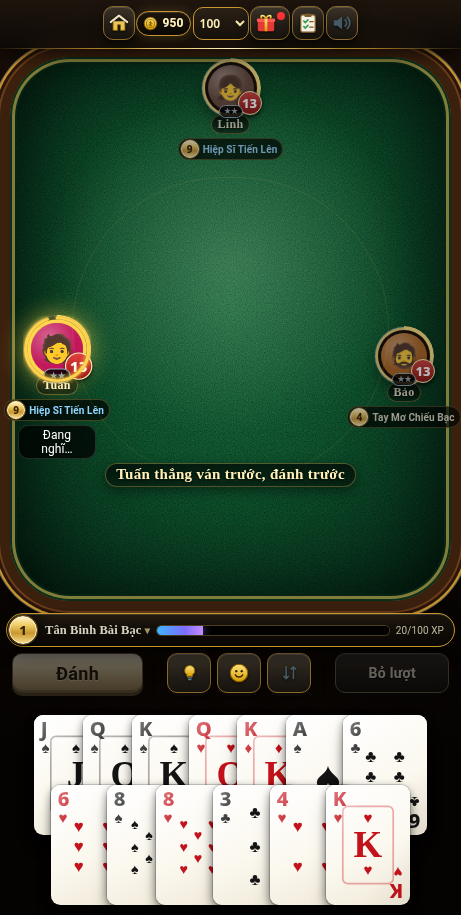
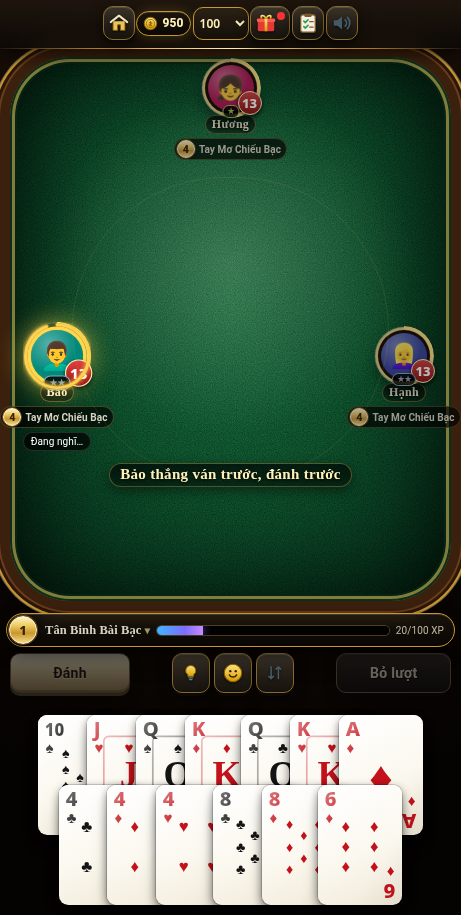
Hết giờ lượt 15s: tự bỏ/tự đánh, 3 lần → treo máy (offline + host online); hàng nút vừa màn hẹp, gộp chat vào biểu cảm; nhãn Đang nghĩ gọn; SW v20

diff --git a/index.html b/index.html
@@ -383,6 +383,11 @@ body.rewardfx #top{position:relative;z-index:25}
 .comp{margin:6px 0 10px}.srow2{display:flex;gap:6px;align-items:center;margin-bottom:6px}.srow2 button{margin:0;padding:6px 14px}
 .seatgrid{display:grid;grid-template-columns:repeat(2,1fr);gap:6px}.sg{border-radius:12px;padding:8px;text-align:center;background:#ffffff0d;border:1px solid #ffffff1a;font-size:13px;position:relative;min-height:38px;display:flex;align-items:center;justify-content:center;gap:4px}
 .sg.hum{border-color:#e9c45a66}.sg.bot{border-color:#4dd0e166}.sg.empty{border-style:dashed}.sg button{margin:0;padding:5px 10px;font-size:12px}.sg .x{position:absolute;right:4px;top:4px;padding:1px 6px!important;background:#c62828!important;border:none!important;color:#fff!important;border-radius:50%!important}
+#afkBar{position:fixed;left:50%;top:56px;transform:translateX(-50%);z-index:300;background:#000d;color:#ffe9a8;border:1px solid #e9c45a;padding:8px 14px;border-radius:14px;font-size:13px;font-weight:700;max-width:92vw;text-align:center}
+@media (max-width:470px){#ctrl{gap:4px!important;padding:0 4px!important}#ctrl #bPlay,#ctrl #bPass{flex:1 1 0;max-width:120px;min-width:72px;padding-left:4px!important;padding-right:4px!important;font-size:14px}
+ #ctrl .alt.ic,#bHint,#bSort{width:38px!important}#ctrl #bChat{display:none!important}}
+.seat .tag{white-space:nowrap;font-size:10px;padding:1px 7px;line-height:15px;min-height:0;max-width:96px;overflow:hidden;text-overflow:ellipsis}
+.emochat{width:100%;margin:0 0 6px!important}
 </style></head><body>
 <svg width="0" height="0" style="position:absolute" aria-hidden="true"><defs>
 <linearGradient id="gGold" x1="0" y1="0" x2="0" y2="1"><stop offset="0" stop-color="#ffe680"/><stop offset="1" stop-color="#d89b00"/></linearGradient>
@@ -423,7 +428,7 @@ body.rewardfx #top{position:relative;z-index:25}
 <div class="modal" id="modal" onclick="if(event.target===this)closeModal()"><div id="modalIn"></div></div><div id="home"></div><div id="emoBar"></div><div id="chatDraw"></div><div id="toast"></div><div id="updBar">Có bản mới! <button onclick="location.reload()">Tải lại</button></div><div id="fx"></div>
 <script src="cloud-config.js"></script>
 <script>
-const APP_VER='82a7a8f5d5';
+const APP_VER='3a755e3b1d';
 // RULES_START
 const RANKS=['3','4','5','6','7','8','9','10','J','Q','K','A','2'];
 const SUITS=['♠','♣','♦','♥'];
@@ -783,7 +788,7 @@ function oBotMove(st,lv){const p=st.turn,others=oActive(st).filter(q=>q!==p).map
  if(m&&!(detect(m)&&canBeat(detect(m),st.cur)&&(!st.first||m.includes(st.firstCard))))m=botMove(st.hands[p],st.cur,st.first?st.firstCard:null,others);if(m)return{type:'play',cards:m};if(!st.cur)return{type:'play',cards:[st.hands[p][0]]};return{type:'pass'};}
 // ---- Host ----
 class OnlineHost{
- constructor(tr,me,opt){this.tr=tr;this.me=me;this.opt=Object.assign({fillBots:true,botDelay:900,turnMs:30000},opt||{});this.players=[me];this.seats=[null,null,null,null];this.st=null;this.lastWinner=null;this.timer=null;this.rev=0;
+ constructor(tr,me,opt){this.tr=tr;this.me=me;this.opt=Object.assign({fillBots:true,botDelay:900,turnMs:15000},opt||{});this.players=[me];this.seats=[null,null,null,null];this.st=null;this.lastWinner=null;this.timer=null;this.rev=0;
   tr.on('intent',m=>this.onIntent(m));tr.on('hello',m=>this.addPlayer(m));this.assign();}
  addPlayer(p){if(!p||!p.uid)return;const i=this.players.findIndex(x=>x.uid===p.uid);if(i>=0)this.players[i]=Object.assign(this.players[i],p,{gone:false});else{if(this.players.filter(x=>!x.gone).length>=(this.opt.size||4))return this.tr.send('full',{uid:p.uid});this.players.push(p);}
   if(this.st&&!this.st.over){const s=this.st.seats.findIndex(x=>x&&x.uid===p.uid);if(s>=0){this.st.seats[s]=Object.assign({},this.st.seats[s],{bot:false});this.push();return;}}
@@ -801,11 +806,15 @@ class OnlineHost{
  start(rng){if(this.st&&!this.st.over)return false;this.assign();const humans=this.seats.filter(Boolean).length;if(humans<2&&!this.opt.fillBots)return false;
   const seats=this.seats.slice();if(this.opt.fillBots&&!this._cfg){let k=0;for(let i=0;i<(this.opt.size||4);i++)if(!seats[i]){seats[i]={uid:null,name:OBOTS[(k++ +humans)%OBOTS.length],bot:true,av:'🤖',lv:5};}}
   if(seats.filter(Boolean).length<2)return false;this.st=oDeal(seats,this.lastWinner,rng);this.st.bet=this.opt.bet||100;if(this.st.over)this.finish();this.push();this.tick();return true;}
- onIntent(m){if(!this.st||!m)return;const seat=this.st.seats.findIndex(s=>s&&s.uid===m.uid);if(seat<0)return;const r=oAct(this.st,seat,m.a||{});
+ onIntent(m){if(!this.st||!m)return;const seat=this.st.seats.findIndex(s=>s&&s.uid===m.uid);if(seat<0)return;const st0=this.st;st0.to=st0.to||[0,0,0,0];st0.afk=st0.afk||[false,false,false,false];const wasAfk=st0.afk[seat];st0.to[seat]=0;st0.afk[seat]=false;if(m.a&&m.a.type==='wake'){this.push();if(wasAfk&&st0.turn===seat)this.tick();return;}const r=oAct(this.st,seat,m.a||{});
   if(!r.ok){this.tr.send('reject',{uid:m.uid,err:r.err});return;}if(this.st.over)this.finish();this.push();this.tick();}
  finish(){const w=this.st.rank&&this.st.seats[this.st.rank[0]];this.lastWinner=w?w.uid:null;clearTimeout(this.timer);}
- tick(){clearTimeout(this.timer);const st=this.st;if(!st||st.over)return;const s=st.seats[st.turn];const auto=()=>{if(this.st!==st||st.over)return;if(this._lvSt!==st){this._lvSt=st;this._lv=[0,1,2,3].map(()=>typeof aiPickLevel==='function'?aiPickLevel((this.me&&this.me.lv)||10):1);}oAct(st,st.turn,oBotMove(st,this._lv[st.turn]));if(st.over)this.finish();this.push();this.tick();};
-  this.timer=setTimeout(auto,s&&s.bot?this.opt.botDelay:this.opt.turnMs);}
+ tick(){clearTimeout(this.timer);const st=this.st;if(!st||st.over)return;const s=st.seats[st.turn];st.to=st.to||[0,0,0,0];st.afk=st.afk||[false,false,false,false];const human=s&&!s.bot,afk=human&&st.afk[st.turn];
+  const timeout=()=>{if(this.st!==st||st.over)return;const p=st.turn;st.to[p]=(st.to[p]||0)+1;let a;if(st.cur)a={type:'pass'};else{const c=st.first?st.firstCard:Math.min(...st.hands[p]);a={type:'play',cards:[c]};}
+   oAct(st,p,a);st.ev=Object.assign(st.ev||{},{timeout:true,tseat:p});if(st.to[p]>=3){st.afk[p]=true;st.hist.push({txt:`${seatName(st,p)} treo máy — máy chơi thay`,cls:'ps'});}if(st.over)this.finish();this.push();this.tick();};
+  if(human&&!afk){this.timer=setTimeout(timeout,this.opt.turnMs);return;}
+  const auto=()=>{if(this.st!==st||st.over)return;if(this._lvSt!==st){this._lvSt=st;this._lv=[0,1,2,3].map(()=>typeof aiPickLevel==='function'?aiPickLevel((this.me&&this.me.lv)||10):1);}oAct(st,st.turn,oBotMove(st,this._lv[st.turn]));if(st.over)this.finish();this.push();this.tick();};
+  this.timer=setTimeout(auto,this.opt.botDelay);}
  push(){this.rev++;this.tr.send('room',Object.assign(this.room(),{rev:this.rev}));if(this.st)this.tr.send('state',{rev:this.rev,st:this.st});if(this.onState)this.onState(this.st,this.room());}
  stop(){clearTimeout(this.timer);}
  resume(st,players,rev){this.st=st;this.rev=(rev||0)+1;this.players=players.slice();if(!this.players.find(x=>x.uid===this.me.uid))this.players.unshift(this.me);
@@ -1927,5 +1936,27 @@ const _rr20=renderRoom;renderRoom=function(){_rr20.apply(this,arguments);try{con
   if(s&&s.bot)return `<div class="sg bot">🤖 Máy ${amHost&&!playing?`<button class="x" onclick="hostBot(${i},false)" title="Bỏ máy">✕</button>`:''}</div>`;
   return `<div class="sg empty">${amHost&&!playing?`<button class="alt" onclick="hostBot(${i},true)">+ Thêm máy</button>`:'Ghế trống'}</div>`;}).join('')}</div><p class="small">Máy có độ khó ngẫu nhiên · XP/xu tính theo tổng số ghế có người/máy (${seats.filter(Boolean).length} ghế).</p></div>`;
  h4.insertAdjacentHTML('afterend',html);if(r.cfg){const lab=[...document.querySelectorAll('#home label')].find(l=>/Thêm máy vào ghế trống/.test(l.textContent));if(lab)lab.style.display='none';}}catch(e){}};
+// ---- Hết giờ lượt (15s): tự bỏ / tự đánh lá nhỏ nhất; 3 lần liền → treo máy, máy chơi thay
+const TURN_MS=15000;let _tKey=null,_tT0=0,_toCount=0,AFK=false;
+function myTurnKey(){return G&&!G.over&&G.turn===0&&!DEALING&&!G.online?(G.hist.length+':'+G.hands[0].length+':'+(G.cur?1:0)):null;}
+function afkBanner(on){let b=$('afkBar');if(on&&!b){b=document.createElement('div');b.id='afkBar';b.textContent='😴 Bạn đang treo máy — máy chơi thay. Chạm để chơi tiếp';document.body.appendChild(b);}else if(!on&&b)b.remove();}
+function wakeUp(){if(!AFK&&!(G&&G.online&&ONL.st&&ONL.st.afk&&ONL.st.afk[myOnlineSeat()]))return;AFK=false;_toCount=0;afkBanner(false);toast('Chào mừng trở lại!');
+ if(G&&G.online){const a={uid:USER.id,a:{type:'wake'}};if(ONL.host)ONL.host.onIntent(a);else ONL.tr&&ONL.tr.send('intent',a);}else if(G&&G.turn===0)setTimeout(()=>{_tKey=null;},0);}
+function myOnlineSeat(){return ONL.st&&USER?ONL.st.seats.findIndex(s=>s&&s.uid===USER.id):-1;}
+if(typeof window!=='undefined'&&window.addEventListener)window.addEventListener('pointerdown',()=>{try{wakeUp();}catch(e){}},{capture:true,passive:true});
+const _hp21=humanPlay;humanPlay=function(){if(!window._autoAct)_toCount=0;return _hp21();};
+const _hs21=humanPass;humanPass=function(){if(!window._autoAct)_toCount=0;return _hs21();};
+function autoMove(reason){if(!G||G.over||G.turn!==0||G.online)return;window._autoAct=true;try{
+ if(AFK){let m=aiMove(1,G.hands[0],G.cur,G.first?G.firstCard:null,{others:[13]});if(m){sel=new Set(m);humanPlay();}else if(G.cur)humanPass();else{sel=new Set([G.first?G.firstCard:Math.min(...G.hands[0])]);humanPlay();}return;}
+ if(G.cur){humanPass();toast('Hết giờ, tự bỏ lượt');}else{const c=G.first?G.firstCard:Math.min(...G.hands[0]);sel=new Set([c]);humanPlay();toast('Hết giờ, tự đánh lá nhỏ nhất');}
+ _toCount++;if(_toCount>=3){AFK=true;afkBanner(true);}}finally{window._autoAct=false;}}
+setInterval(()=>{try{const k=myTurnKey();if(k!==_tKey){_tKey=k;_tT0=Date.now();return;}if(!k)return;
+ if(AFK){if(Date.now()-_tT0>1000)autoMove();return;}if(Date.now()-_tT0>TURN_MS)autoMove();}catch(e){}},300);
+// online: thông báo hết giờ / treo máy
+const _os21=onlineState;onlineState=function(st,fh){_os21(st,fh);try{const me=myOnlineSeat();if(me<0)return;
+ if(st.ev&&st.ev.timeout&&st.ev.tseat===me){const k=(st.hist||[]).length+':'+st.turn;if(ONL._toK!==k){ONL._toK=k;toast(st.ev.cards||st.cur&&st.curBy===me?'Hết giờ, tự đánh lá nhỏ nhất':'Hết giờ, tự bỏ lượt');}}
+ afkBanner(!!(st.afk&&st.afk[me]&&!st.over));}catch(e){}};
+// gộp chat vào nút biểu cảm khi online trên màn hình hẹp
+const _te21=toggleEmotes;toggleEmotes=function(){_te21();const b=$('emoBar');if(b&&b.className==='on'&&G&&G.online&&!b.querySelector('.emochat'))b.insertAdjacentHTML('afterbegin',`<button class="alt emochat" onclick="$('emoBar').className='';toggleChat()">💬 Trò chuyện</button>`);};
 boot();
 </script></body></html>

diff --git a/tien-len-mien-nam.html b/tien-len-mien-nam.html
@@ -383,6 +383,11 @@ body.rewardfx #top{position:relative;z-index:25}
 .comp{margin:6px 0 10px}.srow2{display:flex;gap:6px;align-items:center;margin-bottom:6px}.srow2 button{margin:0;padding:6px 14px}
 .seatgrid{display:grid;grid-template-columns:repeat(2,1fr);gap:6px}.sg{border-radius:12px;padding:8px;text-align:center;background:#ffffff0d;border:1px solid #ffffff1a;font-size:13px;position:relative;min-height:38px;display:flex;align-items:center;justify-content:center;gap:4px}
 .sg.hum{border-color:#e9c45a66}.sg.bot{border-color:#4dd0e166}.sg.empty{border-style:dashed}.sg button{margin:0;padding:5px 10px;font-size:12px}.sg .x{position:absolute;right:4px;top:4px;padding:1px 6px!important;background:#c62828!important;border:none!important;color:#fff!important;border-radius:50%!important}
+#afkBar{position:fixed;left:50%;top:56px;transform:translateX(-50%);z-index:300;background:#000d;color:#ffe9a8;border:1px solid #e9c45a;padding:8px 14px;border-radius:14px;font-size:13px;font-weight:700;max-width:92vw;text-align:center}
+@media (max-width:470px){#ctrl{gap:4px!important;padding:0 4px!important}#ctrl #bPlay,#ctrl #bPass{flex:1 1 0;max-width:120px;min-width:72px;padding-left:4px!important;padding-right:4px!important;font-size:14px}
+ #ctrl .alt.ic,#bHint,#bSort{width:38px!important}#ctrl #bChat{display:none!important}}
+.seat .tag{white-space:nowrap;font-size:10px;padding:1px 7px;line-height:15px;min-height:0;max-width:96px;overflow:hidden;text-overflow:ellipsis}
+.emochat{width:100%;margin:0 0 6px!important}
 </style></head><body>
 <svg width="0" height="0" style="position:absolute" aria-hidden="true"><defs>
 <linearGradient id="gGold" x1="0" y1="0" x2="0" y2="1"><stop offset="0" stop-color="#ffe680"/><stop offset="1" stop-color="#d89b00"/></linearGradient>
@@ -423,7 +428,7 @@ body.rewardfx #top{position:relative;z-index:25}
 <div class="modal" id="modal" onclick="if(event.target===this)closeModal()"><div id="modalIn"></div></div><div id="home"></div><div id="emoBar"></div><div id="chatDraw"></div><div id="toast"></div><div id="updBar">Có bản mới! <button onclick="location.reload()">Tải lại</button></div><div id="fx"></div>
 <script src="cloud-config.js"></script>
 <script>
-const APP_VER='82a7a8f5d5';
+const APP_VER='3a755e3b1d';
 // RULES_START
 const RANKS=['3','4','5','6','7','8','9','10','J','Q','K','A','2'];
 const SUITS=['♠','♣','♦','♥'];
@@ -783,7 +788,7 @@ function oBotMove(st,lv){const p=st.turn,others=oActive(st).filter(q=>q!==p).map
  if(m&&!(detect(m)&&canBeat(detect(m),st.cur)&&(!st.first||m.includes(st.firstCard))))m=botMove(st.hands[p],st.cur,st.first?st.firstCard:null,others);if(m)return{type:'play',cards:m};if(!st.cur)return{type:'play',cards:[st.hands[p][0]]};return{type:'pass'};}
 // ---- Host ----
 class OnlineHost{
- constructor(tr,me,opt){this.tr=tr;this.me=me;this.opt=Object.assign({fillBots:true,botDelay:900,turnMs:30000},opt||{});this.players=[me];this.seats=[null,null,null,null];this.st=null;this.lastWinner=null;this.timer=null;this.rev=0;
+ constructor(tr,me,opt){this.tr=tr;this.me=me;this.opt=Object.assign({fillBots:true,botDelay:900,turnMs:15000},opt||{});this.players=[me];this.seats=[null,null,null,null];this.st=null;this.lastWinner=null;this.timer=null;this.rev=0;
   tr.on('intent',m=>this.onIntent(m));tr.on('hello',m=>this.addPlayer(m));this.assign();}
  addPlayer(p){if(!p||!p.uid)return;const i=this.players.findIndex(x=>x.uid===p.uid);if(i>=0)this.players[i]=Object.assign(this.players[i],p,{gone:false});else{if(this.players.filter(x=>!x.gone).length>=(this.opt.size||4))return this.tr.send('full',{uid:p.uid});this.players.push(p);}
   if(this.st&&!this.st.over){const s=this.st.seats.findIndex(x=>x&&x.uid===p.uid);if(s>=0){this.st.seats[s]=Object.assign({},this.st.seats[s],{bot:false});this.push();return;}}
@@ -801,11 +806,15 @@ class OnlineHost{
  start(rng){if(this.st&&!this.st.over)return false;this.assign();const humans=this.seats.filter(Boolean).length;if(humans<2&&!this.opt.fillBots)return false;
   const seats=this.seats.slice();if(this.opt.fillBots&&!this._cfg){let k=0;for(let i=0;i<(this.opt.size||4);i++)if(!seats[i]){seats[i]={uid:null,name:OBOTS[(k++ +humans)%OBOTS.length],bot:true,av:'🤖',lv:5};}}
   if(seats.filter(Boolean).length<2)return false;this.st=oDeal(seats,this.lastWinner,rng);this.st.bet=this.opt.bet||100;if(this.st.over)this.finish();this.push();this.tick();return true;}
- onIntent(m){if(!this.st||!m)return;const seat=this.st.seats.findIndex(s=>s&&s.uid===m.uid);if(seat<0)return;const r=oAct(this.st,seat,m.a||{});
+ onIntent(m){if(!this.st||!m)return;const seat=this.st.seats.findIndex(s=>s&&s.uid===m.uid);if(seat<0)return;const st0=this.st;st0.to=st0.to||[0,0,0,0];st0.afk=st0.afk||[false,false,false,false];const wasAfk=st0.afk[seat];st0.to[seat]=0;st0.afk[seat]=false;if(m.a&&m.a.type==='wake'){this.push();if(wasAfk&&st0.turn===seat)this.tick();return;}const r=oAct(this.st,seat,m.a||{});
   if(!r.ok){this.tr.send('reject',{uid:m.uid,err:r.err});return;}if(this.st.over)this.finish();this.push();this.tick();}
  finish(){const w=this.st.rank&&this.st.seats[this.st.rank[0]];this.lastWinner=w?w.uid:null;clearTimeout(this.timer);}
- tick(){clearTimeout(this.timer);const st=this.st;if(!st||st.over)return;const s=st.seats[st.turn];const auto=()=>{if(this.st!==st||st.over)return;if(this._lvSt!==st){this._lvSt=st;this._lv=[0,1,2,3].map(()=>typeof aiPickLevel==='function'?aiPickLevel((this.me&&this.me.lv)||10):1);}oAct(st,st.turn,oBotMove(st,this._lv[st.turn]));if(st.over)this.finish();this.push();this.tick();};
-  this.timer=setTimeout(auto,s&&s.bot?this.opt.botDelay:this.opt.turnMs);}
+ tick(){clearTimeout(this.timer);const st=this.st;if(!st||st.over)return;const s=st.seats[st.turn];st.to=st.to||[0,0,0,0];st.afk=st.afk||[false,false,false,false];const human=s&&!s.bot,afk=human&&st.afk[st.turn];
+  const timeout=()=>{if(this.st!==st||st.over)return;const p=st.turn;st.to[p]=(st.to[p]||0)+1;let a;if(st.cur)a={type:'pass'};else{const c=st.first?st.firstCard:Math.min(...st.hands[p]);a={type:'play',cards:[c]};}
+   oAct(st,p,a);st.ev=Object.assign(st.ev||{},{timeout:true,tseat:p});if(st.to[p]>=3){st.afk[p]=true;st.hist.push({txt:`${seatName(st,p)} treo máy — máy chơi thay`,cls:'ps'});}if(st.over)this.finish();this.push();this.tick();};
+  if(human&&!afk){this.timer=setTimeout(timeout,this.opt.turnMs);return;}
+  const auto=()=>{if(this.st!==st||st.over)return;if(this._lvSt!==st){this._lvSt=st;this._lv=[0,1,2,3].map(()=>typeof aiPickLevel==='function'?aiPickLevel((this.me&&this.me.lv)||10):1);}oAct(st,st.turn,oBotMove(st,this._lv[st.turn]));if(st.over)this.finish();this.push();this.tick();};
+  this.timer=setTimeout(auto,this.opt.botDelay);}
  push(){this.rev++;this.tr.send('room',Object.assign(this.room(),{rev:this.rev}));if(this.st)this.tr.send('state',{rev:this.rev,st:this.st});if(this.onState)this.onState(this.st,this.room());}
  stop(){clearTimeout(this.timer);}
  resume(st,players,rev){this.st=st;this.rev=(rev||0)+1;this.players=players.slice();if(!this.players.find(x=>x.uid===this.me.uid))this.players.unshift(this.me);
@@ -1927,5 +1936,27 @@ const _rr20=renderRoom;renderRoom=function(){_rr20.apply(this,arguments);try{con
   if(s&&s.bot)return `<div class="sg bot">🤖 Máy ${amHost&&!playing?`<button class="x" onclick="hostBot(${i},false)" title="Bỏ máy">✕</button>`:''}</div>`;
   return `<div class="sg empty">${amHost&&!playing?`<button class="alt" onclick="hostBot(${i},true)">+ Thêm máy</button>`:'Ghế trống'}</div>`;}).join('')}</div><p class="small">Máy có độ khó ngẫu nhiên · XP/xu tính theo tổng số ghế có người/máy (${seats.filter(Boolean).length} ghế).</p></div>`;
  h4.insertAdjacentHTML('afterend',html);if(r.cfg){const lab=[...document.querySelectorAll('#home label')].find(l=>/Thêm máy vào ghế trống/.test(l.textContent));if(lab)lab.style.display='none';}}catch(e){}};
+// ---- Hết giờ lượt (15s): tự bỏ / tự đánh lá nhỏ nhất; 3 lần liền → treo máy, máy chơi thay
+const TURN_MS=15000;let _tKey=null,_tT0=0,_toCount=0,AFK=false;
+function myTurnKey(){return G&&!G.over&&G.turn===0&&!DEALING&&!G.online?(G.hist.length+':'+G.hands[0].length+':'+(G.cur?1:0)):null;}
+function afkBanner(on){let b=$('afkBar');if(on&&!b){b=document.createElement('div');b.id='afkBar';b.textContent='😴 Bạn đang treo máy — máy chơi thay. Chạm để chơi tiếp';document.body.appendChild(b);}else if(!on&&b)b.remove();}
+function wakeUp(){if(!AFK&&!(G&&G.online&&ONL.st&&ONL.st.afk&&ONL.st.afk[myOnlineSeat()]))return;AFK=false;_toCount=0;afkBanner(false);toast('Chào mừng trở lại!');
+ if(G&&G.online){const a={uid:USER.id,a:{type:'wake'}};if(ONL.host)ONL.host.onIntent(a);else ONL.tr&&ONL.tr.send('intent',a);}else if(G&&G.turn===0)setTimeout(()=>{_tKey=null;},0);}
+function myOnlineSeat(){return ONL.st&&USER?ONL.st.seats.findIndex(s=>s&&s.uid===USER.id):-1;}
+if(typeof window!=='undefined'&&window.addEventListener)window.addEventListener('pointerdown',()=>{try{wakeUp();}catch(e){}},{capture:true,passive:true});
+const _hp21=humanPlay;humanPlay=function(){if(!window._autoAct)_toCount=0;return _hp21();};
+const _hs21=humanPass;humanPass=function(){if(!window._autoAct)_toCount=0;return _hs21();};
+function autoMove(reason){if(!G||G.over||G.turn!==0||G.online)return;window._autoAct=true;try{
+ if(AFK){let m=aiMove(1,G.hands[0],G.cur,G.first?G.firstCard:null,{others:[13]});if(m){sel=new Set(m);humanPlay();}else if(G.cur)humanPass();else{sel=new Set([G.first?G.firstCard:Math.min(...G.hands[0])]);humanPlay();}return;}
+ if(G.cur){humanPass();toast('Hết giờ, tự bỏ lượt');}else{const c=G.first?G.firstCard:Math.min(...G.hands[0]);sel=new Set([c]);humanPlay();toast('Hết giờ, tự đánh lá nhỏ nhất');}
+ _toCount++;if(_toCount>=3){AFK=true;afkBanner(true);}}finally{window._autoAct=false;}}
+setInterval(()=>{try{const k=myTurnKey();if(k!==_tKey){_tKey=k;_tT0=Date.now();return;}if(!k)return;
+ if(AFK){if(Date.now()-_tT0>1000)autoMove();return;}if(Date.now()-_tT0>TURN_MS)autoMove();}catch(e){}},300);
+// online: thông báo hết giờ / treo máy
+const _os21=onlineState;onlineState=function(st,fh){_os21(st,fh);try{const me=myOnlineSeat();if(me<0)return;
+ if(st.ev&&st.ev.timeout&&st.ev.tseat===me){const k=(st.hist||[]).length+':'+st.turn;if(ONL._toK!==k){ONL._toK=k;toast(st.ev.cards||st.cur&&st.curBy===me?'Hết giờ, tự đánh lá nhỏ nhất':'Hết giờ, tự bỏ lượt');}}
+ afkBanner(!!(st.afk&&st.afk[me]&&!st.over));}catch(e){}};
+// gộp chat vào nút biểu cảm khi online trên màn hình hẹp
+const _te21=toggleEmotes;toggleEmotes=function(){_te21();const b=$('emoBar');if(b&&b.className==='on'&&G&&G.online&&!b.querySelector('.emochat'))b.insertAdjacentHTML('afterbegin',`<button class="alt emochat" onclick="$('emoBar').className='';toggleChat()">💬 Trò chuyện</button>`);};
 boot();
 </script></body></html>

diff --git a/online-core.js b/online-core.js
@@ -42,7 +42,7 @@ function oBotMove(st,lv){const p=st.turn,others=oActive(st).filter(q=>q!==p).map
  if(m&&!(detect(m)&&canBeat(detect(m),st.cur)&&(!st.first||m.includes(st.firstCard))))m=botMove(st.hands[p],st.cur,st.first?st.firstCard:null,others);if(m)return{type:'play',cards:m};if(!st.cur)return{type:'play',cards:[st.hands[p][0]]};return{type:'pass'};}
 // ---- Host ----
 class OnlineHost{
- constructor(tr,me,opt){this.tr=tr;this.me=me;this.opt=Object.assign({fillBots:true,botDelay:900,turnMs:30000},opt||{});this.players=[me];this.seats=[null,null,null,null];this.st=null;this.lastWinner=null;this.timer=null;this.rev=0;
+ constructor(tr,me,opt){this.tr=tr;this.me=me;this.opt=Object.assign({fillBots:true,botDelay:900,turnMs:15000},opt||{});this.players=[me];this.seats=[null,null,null,null];this.st=null;this.lastWinner=null;this.timer=null;this.rev=0;
   tr.on('intent',m=>this.onIntent(m));tr.on('hello',m=>this.addPlayer(m));this.assign();}
  addPlayer(p){if(!p||!p.uid)return;const i=this.players.findIndex(x=>x.uid===p.uid);if(i>=0)this.players[i]=Object.assign(this.players[i],p,{gone:false});else{if(this.players.filter(x=>!x.gone).length>=(this.opt.size||4))return this.tr.send('full',{uid:p.uid});this.players.push(p);}
   if(this.st&&!this.st.over){const s=this.st.seats.findIndex(x=>x&&x.uid===p.uid);if(s>=0){this.st.seats[s]=Object.assign({},this.st.seats[s],{bot:false});this.push();return;}}
@@ -60,11 +60,15 @@ class OnlineHost{
  start(rng){if(this.st&&!this.st.over)return false;this.assign();const humans=this.seats.filter(Boolean).length;if(humans<2&&!this.opt.fillBots)return false;
   const seats=this.seats.slice();if(this.opt.fillBots&&!this._cfg){let k=0;for(let i=0;i<(this.opt.size||4);i++)if(!seats[i]){seats[i]={uid:null,name:OBOTS[(k++ +humans)%OBOTS.length],bot:true,av:'🤖',lv:5};}}
   if(seats.filter(Boolean).length<2)return false;this.st=oDeal(seats,this.lastWinner,rng);this.st.bet=this.opt.bet||100;if(this.st.over)this.finish();this.push();this.tick();return true;}
- onIntent(m){if(!this.st||!m)return;const seat=this.st.seats.findIndex(s=>s&&s.uid===m.uid);if(seat<0)return;const r=oAct(this.st,seat,m.a||{});
+ onIntent(m){if(!this.st||!m)return;const seat=this.st.seats.findIndex(s=>s&&s.uid===m.uid);if(seat<0)return;const st0=this.st;st0.to=st0.to||[0,0,0,0];st0.afk=st0.afk||[false,false,false,false];const wasAfk=st0.afk[seat];st0.to[seat]=0;st0.afk[seat]=false;if(m.a&&m.a.type==='wake'){this.push();if(wasAfk&&st0.turn===seat)this.tick();return;}const r=oAct(this.st,seat,m.a||{});
   if(!r.ok){this.tr.send('reject',{uid:m.uid,err:r.err});return;}if(this.st.over)this.finish();this.push();this.tick();}
  finish(){const w=this.st.rank&&this.st.seats[this.st.rank[0]];this.lastWinner=w?w.uid:null;clearTimeout(this.timer);}
- tick(){clearTimeout(this.timer);const st=this.st;if(!st||st.over)return;const s=st.seats[st.turn];const auto=()=>{if(this.st!==st||st.over)return;if(this._lvSt!==st){this._lvSt=st;this._lv=[0,1,2,3].map(()=>typeof aiPickLevel==='function'?aiPickLevel((this.me&&this.me.lv)||10):1);}oAct(st,st.turn,oBotMove(st,this._lv[st.turn]));if(st.over)this.finish();this.push();this.tick();};
-  this.timer=setTimeout(auto,s&&s.bot?this.opt.botDelay:this.opt.turnMs);}
+ tick(){clearTimeout(this.timer);const st=this.st;if(!st||st.over)return;const s=st.seats[st.turn];st.to=st.to||[0,0,0,0];st.afk=st.afk||[false,false,false,false];const human=s&&!s.bot,afk=human&&st.afk[st.turn];
+  const timeout=()=>{if(this.st!==st||st.over)return;const p=st.turn;st.to[p]=(st.to[p]||0)+1;let a;if(st.cur)a={type:'pass'};else{const c=st.first?st.firstCard:Math.min(...st.hands[p]);a={type:'play',cards:[c]};}
+   oAct(st,p,a);st.ev=Object.assign(st.ev||{},{timeout:true,tseat:p});if(st.to[p]>=3){st.afk[p]=true;st.hist.push({txt:`${seatName(st,p)} treo máy — máy chơi thay`,cls:'ps'});}if(st.over)this.finish();this.push();this.tick();};
+  if(human&&!afk){this.timer=setTimeout(timeout,this.opt.turnMs);return;}
+  const auto=()=>{if(this.st!==st||st.over)return;if(this._lvSt!==st){this._lvSt=st;this._lv=[0,1,2,3].map(()=>typeof aiPickLevel==='function'?aiPickLevel((this.me&&this.me.lv)||10):1);}oAct(st,st.turn,oBotMove(st,this._lv[st.turn]));if(st.over)this.finish();this.push();this.tick();};
+  this.timer=setTimeout(auto,this.opt.botDelay);}
  push(){this.rev++;this.tr.send('room',Object.assign(this.room(),{rev:this.rev}));if(this.st)this.tr.send('state',{rev:this.rev,st:this.st});if(this.onState)this.onState(this.st,this.room());}
  stop(){clearTimeout(this.timer);}
  resume(st,players,rev){this.st=st;this.rev=(rev||0)+1;this.players=players.slice();if(!this.players.find(x=>x.uid===this.me.uid))this.players.unshift(this.me);

diff --git a/src/v9.js b/src/v9.js
@@ -282,3 +282,25 @@ const _rr20=renderRoom;renderRoom=function(){_rr20.apply(this,arguments);try{con
   if(s&&s.bot)return `<div class="sg bot">🤖 Máy ${amHost&&!playing?`<button class="x" onclick="hostBot(${i},false)" title="Bỏ máy">✕</button>`:''}</div>`;
   return `<div class="sg empty">${amHost&&!playing?`<button class="alt" onclick="hostBot(${i},true)">+ Thêm máy</button>`:'Ghế trống'}</div>`;}).join('')}</div><p class="small">Máy có độ khó ngẫu nhiên · XP/xu tính theo tổng số ghế có người/máy (${seats.filter(Boolean).length} ghế).</p></div>`;
  h4.insertAdjacentHTML('afterend',html);if(r.cfg){const lab=[...document.querySelectorAll('#home label')].find(l=>/Thêm máy vào ghế trống/.test(l.textContent));if(lab)lab.style.display='none';}}catch(e){}};
+// ---- Hết giờ lượt (15s): tự bỏ / tự đánh lá nhỏ nhất; 3 lần liền → treo máy, máy chơi thay
+const TURN_MS=15000;let _tKey=null,_tT0=0,_toCount=0,AFK=false;
+function myTurnKey(){return G&&!G.over&&G.turn===0&&!DEALING&&!G.online?(G.hist.length+':'+G.hands[0].length+':'+(G.cur?1:0)):null;}
+function afkBanner(on){let b=$('afkBar');if(on&&!b){b=document.createElement('div');b.id='afkBar';b.textContent='😴 Bạn đang treo máy — máy chơi thay. Chạm để chơi tiếp';document.body.appendChild(b);}else if(!on&&b)b.remove();}
+function wakeUp(){if(!AFK&&!(G&&G.online&&ONL.st&&ONL.st.afk&&ONL.st.afk[myOnlineSeat()]))return;AFK=false;_toCount=0;afkBanner(false);toast('Chào mừng trở lại!');
+ if(G&&G.online){const a={uid:USER.id,a:{type:'wake'}};if(ONL.host)ONL.host.onIntent(a);else ONL.tr&&ONL.tr.send('intent',a);}else if(G&&G.turn===0)setTimeout(()=>{_tKey=null;},0);}
+function myOnlineSeat(){return ONL.st&&USER?ONL.st.seats.findIndex(s=>s&&s.uid===USER.id):-1;}
+if(typeof window!=='undefined'&&window.addEventListener)window.addEventListener('pointerdown',()=>{try{wakeUp();}catch(e){}},{capture:true,passive:true});
+const _hp21=humanPlay;humanPlay=function(){if(!window._autoAct)_toCount=0;return _hp21();};
+const _hs21=humanPass;humanPass=function(){if(!window._autoAct)_toCount=0;return _hs21();};
+function autoMove(reason){if(!G||G.over||G.turn!==0||G.online)return;window._autoAct=true;try{
+ if(AFK){let m=aiMove(1,G.hands[0],G.cur,G.first?G.firstCard:null,{others:[13]});if(m){sel=new Set(m);humanPlay();}else if(G.cur)humanPass();else{sel=new Set([G.first?G.firstCard:Math.min(...G.hands[0])]);humanPlay();}return;}
+ if(G.cur){humanPass();toast('Hết giờ, tự bỏ lượt');}else{const c=G.first?G.firstCard:Math.min(...G.hands[0]);sel=new Set([c]);humanPlay();toast('Hết giờ, tự đánh lá nhỏ nhất');}
+ _toCount++;if(_toCount>=3){AFK=true;afkBanner(true);}}finally{window._autoAct=false;}}
+setInterval(()=>{try{const k=myTurnKey();if(k!==_tKey){_tKey=k;_tT0=Date.now();return;}if(!k)return;
+ if(AFK){if(Date.now()-_tT0>1000)autoMove();return;}if(Date.now()-_tT0>TURN_MS)autoMove();}catch(e){}},300);
+// online: thông báo hết giờ / treo máy
+const _os21=onlineState;onlineState=function(st,fh){_os21(st,fh);try{const me=myOnlineSeat();if(me<0)return;
+ if(st.ev&&st.ev.timeout&&st.ev.tseat===me){const k=(st.hist||[]).length+':'+st.turn;if(ONL._toK!==k){ONL._toK=k;toast(st.ev.cards||st.cur&&st.curBy===me?'Hết giờ, tự đánh lá nhỏ nhất':'Hết giờ, tự bỏ lượt');}}
+ afkBanner(!!(st.afk&&st.afk[me]&&!st.over));}catch(e){}};
+// gộp chat vào nút biểu cảm khi online trên màn hình hẹp
+const _te21=toggleEmotes;toggleEmotes=function(){_te21();const b=$('emoBar');if(b&&b.className==='on'&&G&&G.online&&!b.querySelector('.emochat'))b.insertAdjacentHTML('afterbegin',`<button class="alt emochat" onclick="$('emoBar').className='';toggleChat()">💬 Trò chuyện</button>`);};

diff --git a/tools-v20.js b/tools-v20.js
@@ -1,0 +1,13 @@
+const {chromium}=require('playwright-core');
+(async()=>{const b=await chromium.launch({executablePath:'/usr/bin/google-chrome',args:['--no-sandbox']});const errs=[];let ok=0,bad=0;const t=(n,c)=>{c?ok++:(bad++,console.log('FAIL',n));};
+for(const W of [360,412,461]){const p=await (await b.newContext({viewport:{width:W,height:900},hasTouch:true})).newPage();p.on('pageerror',e=>errs.push(e.message));
+ await p.goto('http://localhost:8765/index.html');await p.waitForTimeout(700);await p.evaluate(()=>{closeModal();startTable(4);});await p.waitForTimeout(3000);
+ await p.evaluate(()=>{$('bChat').style.display='';render();});const fit=await p.evaluate(()=>{const r=[...document.querySelectorAll('#ctrl button')].filter(b=>b.offsetParent).map(b=>b.getBoundingClientRect());return r.every(x=>x.right<=innerWidth+0.5&&x.left>=-0.5)&&r.length>=5;});t('ctrl fits '+W,fit);
+ if(W===360)await p.screenshot({path:'shots/v20-ctrl-360.png'});
+ if(W===461){// timeout test with short timer
+  await p.evaluate(()=>{window.step=()=>{};G.turn=0;G.cur=detect([50]);G.curBy=2;G.pile=[50];G.passed=[0,0,0,0];G.first=false;render();});
+  await p.waitForTimeout(15800);t('auto pass on timeout',await p.evaluate(()=>G.passed[0]===1||G.turn!==0));
+  for(let k=0;k<2;k++){await p.evaluate(()=>{G.turn=0;G.cur=null;G.curBy=null;G.pile=[];G.passed=[0,0,0,0];G.first=false;render();});const n0=await p.evaluate(()=>G.hands[0].length);await p.waitForTimeout(15800);t('auto lead '+k,await p.evaluate(n=>G.hands[0].length===n-1,n0));}
+  t('afk on',await p.evaluate(()=>AFK&&!!document.getElementById('afkBar')));await p.screenshot({path:'shots/v20-afk.png'});
+  await p.mouse.click(230,300);await p.waitForTimeout(200);t('wake',await p.evaluate(()=>!AFK));}}
+console.log('pass',ok,'fail',bad,'errors',errs);await b.close();})();

diff --git a/src/head.html b/src/head.html
@@ -383,6 +383,11 @@ body.rewardfx #top{position:relative;z-index:25}
 .comp{margin:6px 0 10px}.srow2{display:flex;gap:6px;align-items:center;margin-bottom:6px}.srow2 button{margin:0;padding:6px 14px}
 .seatgrid{display:grid;grid-template-columns:repeat(2,1fr);gap:6px}.sg{border-radius:12px;padding:8px;text-align:center;background:#ffffff0d;border:1px solid #ffffff1a;font-size:13px;position:relative;min-height:38px;display:flex;align-items:center;justify-content:center;gap:4px}
 .sg.hum{border-color:#e9c45a66}.sg.bot{border-color:#4dd0e166}.sg.empty{border-style:dashed}.sg button{margin:0;padding:5px 10px;font-size:12px}.sg .x{position:absolute;right:4px;top:4px;padding:1px 6px!important;background:#c62828!important;border:none!important;color:#fff!important;border-radius:50%!important}
+#afkBar{position:fixed;left:50%;top:56px;transform:translateX(-50%);z-index:300;background:#000d;color:#ffe9a8;border:1px solid #e9c45a;padding:8px 14px;border-radius:14px;font-size:13px;font-weight:700;max-width:92vw;text-align:center}
+@media (max-width:470px){#ctrl{gap:4px!important;padding:0 4px!important}#ctrl #bPlay,#ctrl #bPass{flex:1 1 0;max-width:120px;min-width:72px;padding-left:4px!important;padding-right:4px!important;font-size:14px}
+ #ctrl .alt.ic,#bHint,#bSort{width:38px!important}#ctrl #bChat{display:none!important}}
+.seat .tag{white-space:nowrap;font-size:10px;padding:1px 7px;line-height:15px;min-height:0;max-width:96px;overflow:hidden;text-overflow:ellipsis}
+.emochat{width:100%;margin:0 0 6px!important}
 </style></head><body>
 <svg width="0" height="0" style="position:absolute" aria-hidden="true"><defs>
 <linearGradient id="gGold" x1="0" y1="0" x2="0" y2="1"><stop offset="0" stop-color="#ffe680"/><stop offset="1" stop-color="#d89b00"/></linearGradient>

diff --git a/test-online2.js b/test-online2.js
@@ -10,4 +10,8 @@ t('start',H.start(()=>0.3));t('st has 3 seats',H.st.seats.filter(Boolean).length
 const st={seats:[{},{},{},{}],hands:[[1],[2],[3],[4]],passed:[0,0,0,0],turn:2,curBy:1,cur:null,pend:{payer:0,receiver:1,amount:150},hist:[],finished:[]};
 O.oNext(st);// turn moves to 3
 st.turn=0;st.passed=[0,0,1,1];O.oNext(st);t('settled at round end',st.settle&&st.settle.amount===150&&st.settle.receiver===1&&!st.pend);
-console.log('pass',ok,'fail',bad);
+(async()=>{const T2=tr(),H2=new O.OnlineHost(T2,{uid:'a',name:'A'},{fillBots:false,bet:100,turnMs:15,botDelay:5});H2.push=()=>{};H2.addPlayer({uid:'b',name:'B'});H2.start(Math.random);
+ const st=H2.st,p0=st.turn,n0=st.hands[p0].length;await new Promise(r=>setTimeout(r,25));t('timeout auto-played lowest (lead)',st.hands[p0].length===n0-1&&st.to[p0]===1);
+ await new Promise(r=>setTimeout(r,200));t('afk after 3 timeouts',st.afk.some(Boolean)||st.over);const who=st.afk.findIndex(Boolean);
+ if(who>=0){H2.onIntent({uid:st.seats[who].uid,a:{type:'wake'}});t('wake clears afk',!st.afk[who]&&st.to[who]===0);}
+ clearTimeout(H2.timer);H2.st.over=true;console.log('pass',ok,'fail',bad);})();

diff --git a/src/sw.template.js b/src/sw.template.js
@@ -1,5 +1,5 @@
 // Service worker: cache toàn bộ để chơi offline
-const CACHE='tlmn-v19-__VERSION__';
+const CACHE='tlmn-v20-__VERSION__';
 const ASSETS=['./','index.html','manifest.webmanifest','cloud-config.js','vendor/supabase.js','favicon.svg','icons/icon.svg','icons/icon-192.png','icons/icon-512.png','icons/maskable-512.png','icons/apple-touch-icon.png','icons/favicon-32.png'];
 self.addEventListener('install',e=>{e.waitUntil(caches.open(CACHE).then(c=>c.addAll(ASSETS)).then(()=>self.skipWaiting()));});
 self.addEventListener('activate',e=>{e.waitUntil(caches.keys().then(ks=>Promise.all(ks.filter(k=>k.startsWith('tlmn-')&&k!==CACHE).map(k=>caches.delete(k)))).then(()=>self.clients.claim()));});

diff --git a/sw.js b/sw.js
@@ -1,5 +1,5 @@
 // Service worker: cache toàn bộ để chơi offline
-const CACHE='tlmn-v19-82a7a8f5d5';
+const CACHE='tlmn-v20-3a755e3b1d';
 const ASSETS=['./','index.html','manifest.webmanifest','cloud-config.js','vendor/supabase.js','favicon.svg','icons/icon.svg','icons/icon-192.png','icons/icon-512.png','icons/maskable-512.png','icons/apple-touch-icon.png','icons/favicon-32.png'];
 self.addEventListener('install',e=>{e.waitUntil(caches.open(CACHE).then(c=>c.addAll(ASSETS)).then(()=>self.skipWaiting()));});
 self.addEventListener('activate',e=>{e.waitUntil(caches.keys().then(ks=>Promise.all(ks.filter(k=>k.startsWith('tlmn-')&&k!==CACHE).map(k=>caches.delete(k)))).then(()=>self.clients.claim()));});
